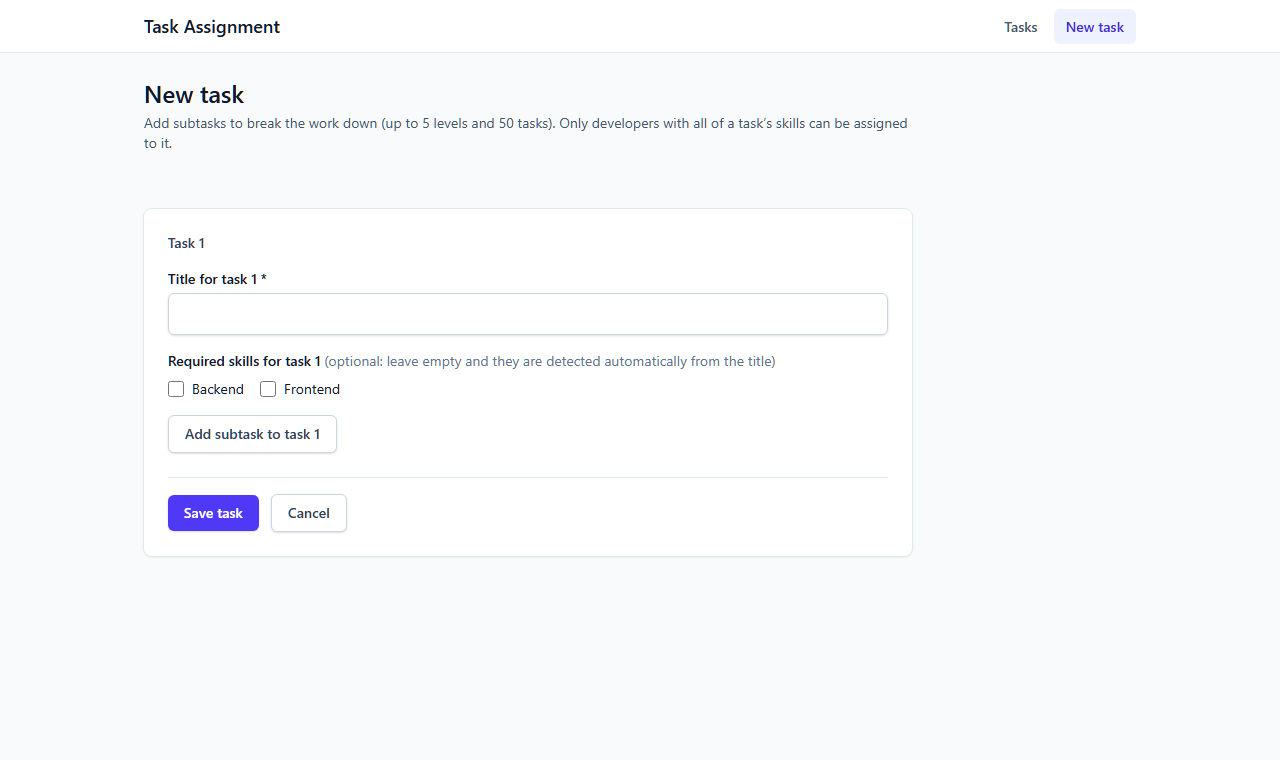
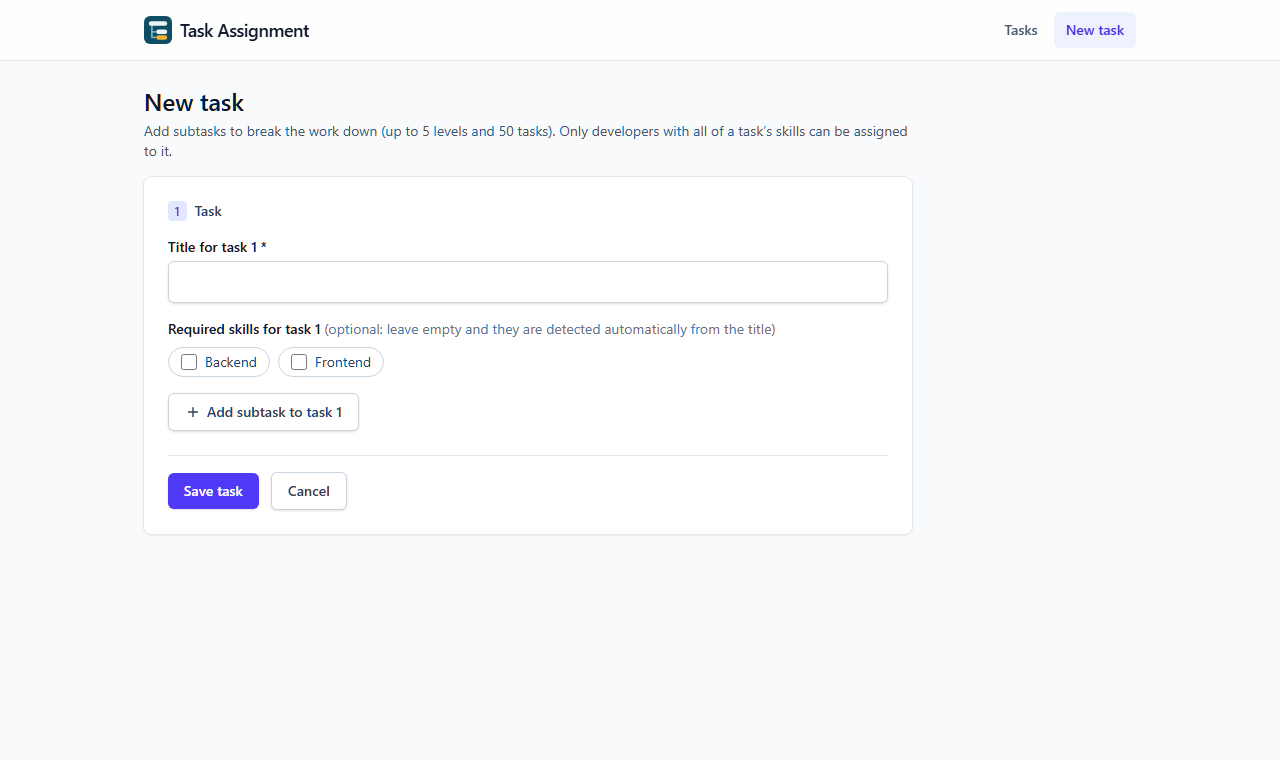
docs📝: update screenshots for task creation and task list views on mobile and desktop

diff --git a/README.md b/README.md
@@ -214,7 +214,8 @@ The three examples from the brief are acceptance tests: "responsive homepage…"
 
 - **Server state** only in TanStack Query; the create form's tree in a `useReducer` (`ADD_SUBTASK`, `REMOVE_NODE`, `UPDATE_TITLE`, `TOGGLE_SKILL`, `RESET`, addressed by path).
 - **Optimistic updates** for status and assignee, with per-task rollback and the server's reason announced. Cascading status changes are **not** optimistic: they open a confirmation dialog (native `<dialog>`, focus on Cancel, Esc cancels) and refetch the tree afterwards.
-- **Accessibility:** semantic `<table>`, a label for every control, errors linked with `aria-describedby`/`aria-invalid`, feedback in an `aria-live="polite"` region, a skip link, keyboard-only use, focus moved to new subtasks and to the first invalid field.
+- **Feedback:** changes in the list are confirmed by toasts (green for a change, red for Cancelled; errors stay until dismissed, confirmations fade after 5 s, at most three at a time). Status selects are colour-coded and always show their label, so colour is never the only cue. When open subtasks block a parent, its Done option reads "Done (locked)" and a visible hint under the select says how many subtasks are still open. A summary above the list counts tasks by status.
+- **Accessibility:** semantic `<table>`, a label for every control, errors and hints linked with `aria-describedby`/`aria-invalid`, confirmation toasts and form errors in `aria-live="polite"` regions and error toasts in a `role="alert"` region (toasts never take focus; hovering or focusing one holds it open), a skip link, keyboard-only use, focus moved to new subtasks and to the first invalid field, animations only with `motion-safe`.
 - **Responsive:** below the `md` breakpoint each row becomes a card from the same DOM, so controls are never duplicated.
 - **Robustness:** route-level code splitting, a router error boundary, loading/empty/error states, and a typed API client that turns problem+json into `ApiError`.
 
@@ -381,7 +382,7 @@ npm test
 |---|---|---|
 | Backend unit (Jest) | 71 | Every business rule (incl. a grandchild still open blocking Done, Cancelled subtasks not blocking it, all cascade cases incl. reopening Cancelled); rule chain; tree limits (including a 100,000-level input); JSON depth guard; forest builder; skill resolution; keyword classifier on the brief's examples; Gemini adapter (prompt shape, schema, output filtering, error mapping); resilience decorator (timeout, retries, partial fallback) |
 | Backend e2e (supertest) | 86 on SQLite **and** 86 on PostgreSQL | Every endpoint; Swagger on/off by `ENABLE_SWAGGER`; validation and problem+json (no internals leaked); skill match (Carol ✓ / Alice ✗ on a Frontend + Backend task); the 1 / 1.1 / 1.1.1 / 1.1.2 tree in one request; depth/size limits and pathological bodies → 400; Done rule; full cascade (409 with the database unchanged → confirm → ancestors In Progress, sibling still Done); skill inference (one batched call, `USER`/`LLM`/`FALLBACK`); rate limits, including per-client limits behind a proxy and spoofing resistance; seed idempotency and seed data obeying the business rules |
-| Frontend (Vitest + RTL) | 56 | Eligibility filter; assignee options; optimistic status/assignee updates with rollback; tree list and collapse; Done disabled while subtasks are open (and enabled once they're Done or Cancelled); Cancelled styling; reopening Cancelled asks for confirmation; cascade dialog (Cancel restores and sends nothing, Confirm sends `confirmCascade`, stale-cache 409 opens it); draft reducer (nested add/remove/update, limits, nested server errors); create page with keyboard focus; API client error handling; AI/Auto badges |
+| Frontend (Vitest + RTL) | 62 | Eligibility filter; assignee options; optimistic status/assignee updates with rollback; tree list and collapse; Done locked with a visible open-subtask count (and enabled once subtasks are Done or Cancelled); Cancelled styling and red toast; toast queue (auto-dismiss paused on hover/focus, errors persist and are never evicted, max three); open-subtask and status counts; reopening Cancelled asks for confirmation; cascade dialog (Cancel restores and sends nothing, Confirm sends `confirmCascade`, stale-cache 409 opens it); draft reducer (nested add/remove/update, limits, nested server errors); create page with keyboard focus; API client error handling; AI/Auto badges |
 
 The e2e tests always replace the skill classifier, so they are deterministic and never call Gemini. Beyond automated tests, each phase was checked manually in a browser, and the Docker stack was cold-started from a fresh copy containing only the committed files.
 
@@ -412,6 +413,8 @@ Planned for v2, highest priority first. Items tagged with a phase came from that
 | Low | [P4] The 422 `openSubtasks` and 409 `affectedTasks` responses include other tasks' titles. Fine in v1 (no auth; `GET /tasks` already shows every title), but they must be filtered by visibility once authentication exists. |
 | Low | [P4] `npm audit` (backend) reports 2 moderate `js-yaml` advisories via `@nestjs/swagger`; not reachable (the app never parses YAML) and fixed only by the Nest 12 major upgrade. Re-check when upgrading. |
 | Low | [P3] The frontend `fetch` ignores TanStack Query's abort `signal` and has no timeout, so `cancelQueries` doesn't abort in-flight requests and a hung `/api` keeps the page loading. Pass the `signal` combined with `AbortSignal.timeout(...)`. |
+| Low | [UI] After a toast is dismissed by hand, focus falls back to `<body>`; move it to a stable element (the toaster or the control that triggered it). |
+| Low | [UI] `favicon.svg` (now also the header logo) carries about 7 KB of embedded C2PA `<metadata>`; strip it with SVGO. |
 | Low | [P2] Nest turns `URIError` and unmatched routes into messages that echo the raw path; return a fixed message per status instead. |
 | Low | [P2] Interactive transactions use Prisma's defaults (`maxWait` 2s, `timeout` 5s); under heavy contention the timeout (P2028) becomes a 500. Map it to 503 with `Retry-After` or set explicit limits. |
 | Low | [P2] Add an e2e test for concurrent PATCHes on the same task (verifies `FOR UPDATE` serialisation). |
